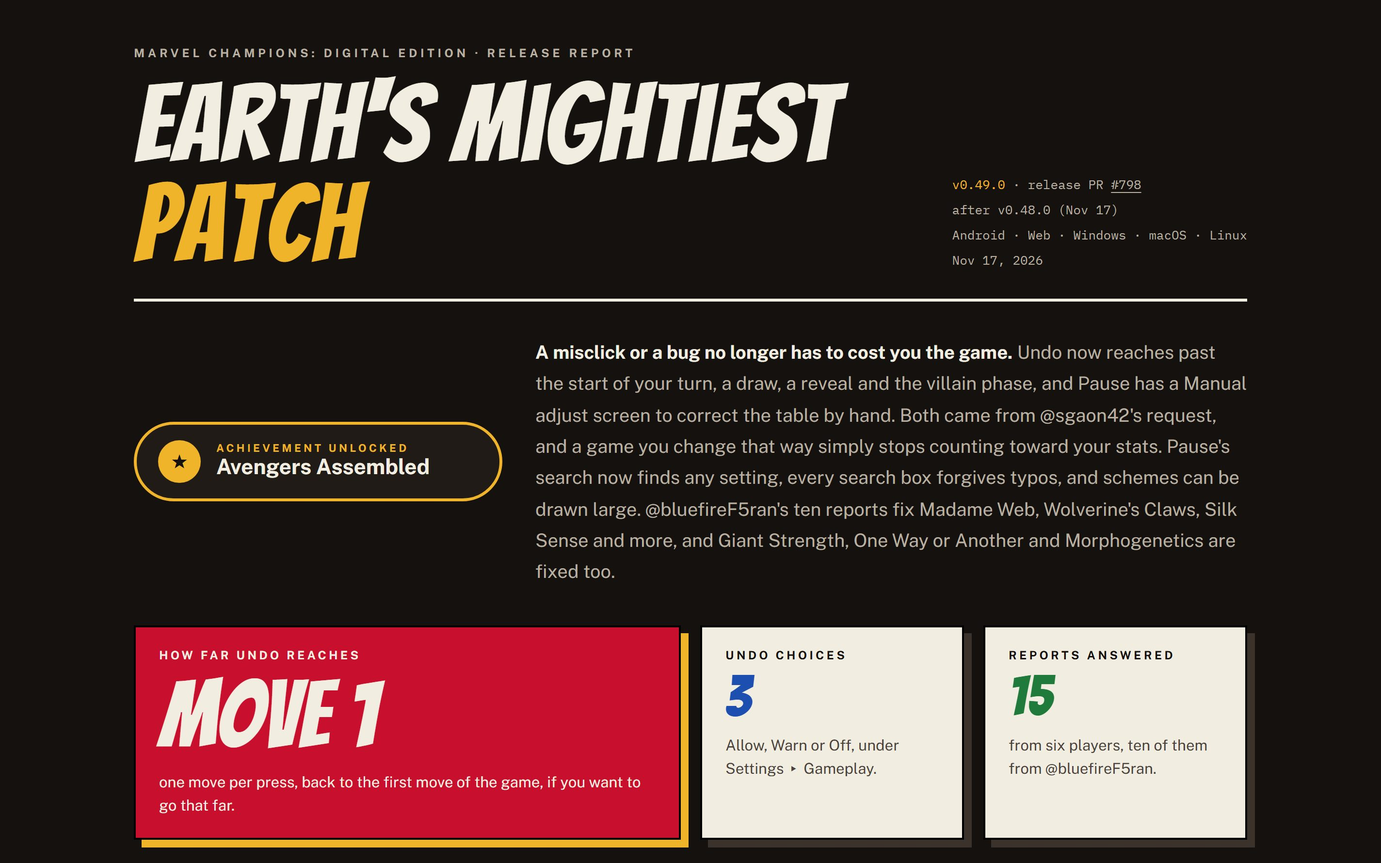
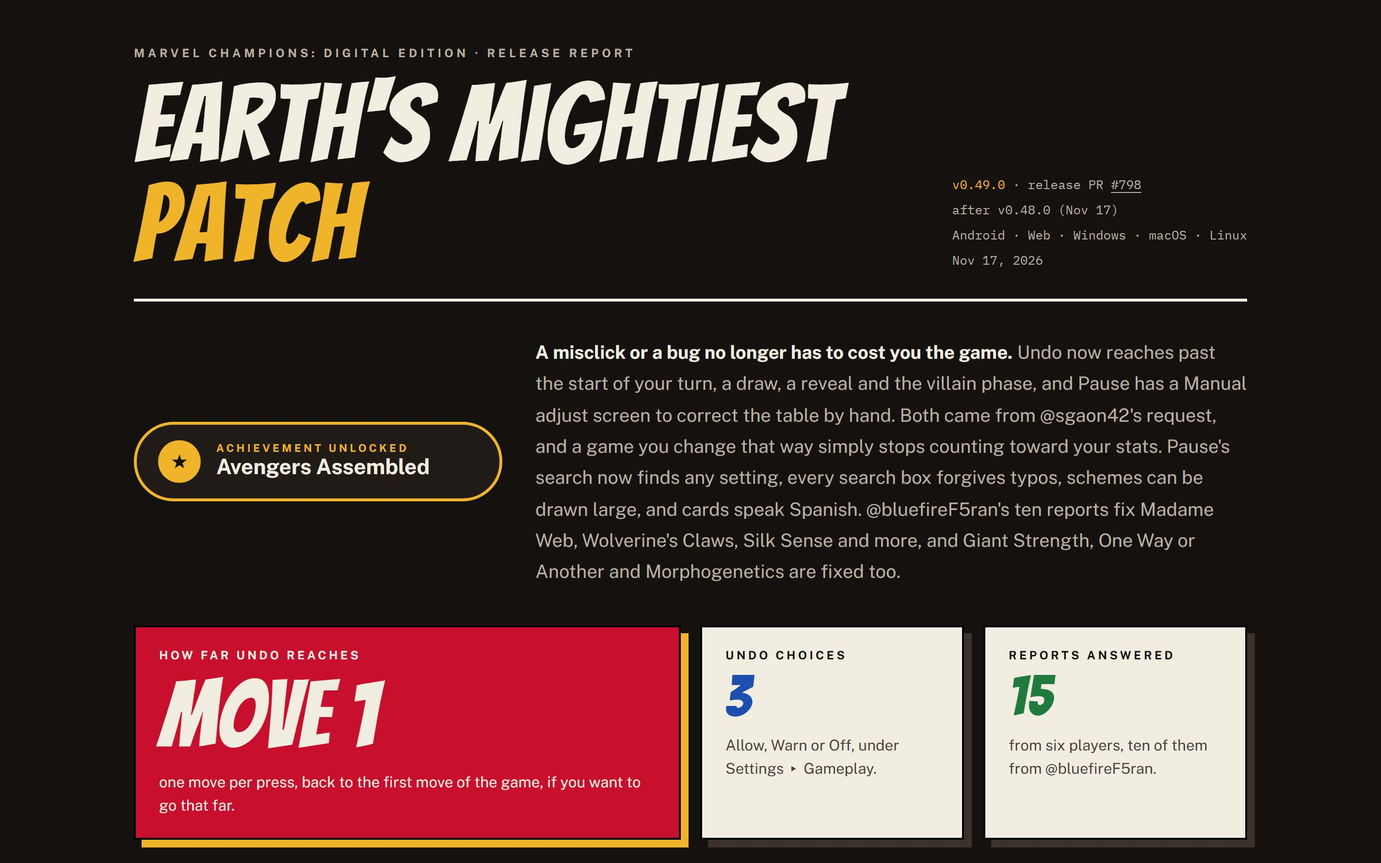
v0.49.0 report: add Spanish card text (#835), recount Code shipped

Changed region(s): [[0.375, 0.5253, 0.9062, 0.6798]]

diff --git a/packages/client/public/releases/v0.49.0/index.html b/packages/client/public/releases/v0.49.0/index.html
@@ -625,9 +625,9 @@
           <b>A misclick or a bug no longer has to cost you the game.</b> Undo now reaches past the start of your turn, a
           draw, a reveal and the villain phase, and Pause has a Manual adjust screen to correct the table by hand. Both
           came from @sgaon42's request, and a game you change that way simply stops counting toward your stats. Pause's
-          search now finds any setting, every search box forgives typos, and schemes can be drawn large.
-          @bluefireF5ran's ten reports fix Madame Web, Wolverine's Claws, Silk Sense and more, and Giant Strength, One
-          Way or Another and Morphogenetics are fixed too.
+          search now finds any setting, every search box forgives typos, schemes can be drawn large, and cards speak
+          Spanish. @bluefireF5ran's ten reports fix Madame Web, Wolverine's Claws, Silk Sense and more, and Giant
+          Strength, One Way or Another and Morphogenetics are fixed too.
         </p>
       </section>
 
@@ -979,6 +979,52 @@
         </div>
       </div>
 
+      <!-- ============ SPANISH ============ -->
+      <div class="band">
+        <h2>Cards that speak Spanish</h2>
+        <div class="lab">Issue #391 · PR #835</div>
+      </div>
+      <div class="pill feat">
+        <div class="star">★</div>
+        <div><small>Achievement unlocked</small><span>Thor's Allspeak</span></div>
+      </div>
+      <p class="lead">
+        <b>With the game in Spanish, the Inspect sheet shows each card's Spanish name, rules text and flavor,</b> and
+        deck lists show Spanish titles and sort by them. The text comes from MarvelCDB's Spanish card database.
+      </p>
+      <div class="shots s-phone">
+        <figure class="a">
+          <img
+            src="img/spanish-inspect.webp"
+            alt="The Inspect sheet in Spanish: Voltereta hacia atrás, with its Spanish rules text and flavor under the card"
+            width="1280"
+            height="871"
+            loading="lazy"
+          />
+          <figcaption>Inspect in Spanish: Voltereta hacia atrás (Backflip)</figcaption>
+        </figure>
+        <figure>
+          <img
+            src="img/spanish-phone.webp"
+            alt="The Spanish Inspect sheet on a phone: ¡Por la justicia!, with its Spanish rules text and flavor"
+            width="412"
+            height="924"
+            loading="lazy"
+          />
+          <figcaption>On a phone: ¡Por la justicia! (For Justice!)</figcaption>
+        </figure>
+      </div>
+      <div class="box">
+        <ul class="ck">
+          <li>About <b>4,000 card faces</b> show Spanish text. Any card not translated yet stays in English.</li>
+          <li>
+            A face whose Spanish doesn't match its English, or a card with errata, keeps the English text, so what you
+            read is always what the game plays.
+          </li>
+          <li>English sessions never download the Spanish text.</li>
+        </ul>
+      </div>
+
       <!-- ============ YOU ASKED ============ -->
       <div class="band">
         <h2>You asked, we fixed</h2>
@@ -1171,22 +1217,22 @@
       <section class="stats" aria-label="Code shipped since v0.48.0">
         <div class="tile">
           <h4>Pull requests</h4>
-          <div class="n">19</div>
+          <div class="n">20</div>
           <p>merged into main.</p>
         </div>
         <div class="tile">
           <h4>Files changed</h4>
-          <div class="n">270</div>
+          <div class="n">350</div>
           <p>across the engine, the cards, the client and this report.</p>
         </div>
         <div class="tile">
           <h4>Lines added</h4>
-          <div class="n c-green">13,271</div>
-          <p>most of them Undo, Manual adjust and their tests.</p>
+          <div class="n c-green">271,471</div>
+          <p>most of them MarvelCDB's Spanish card data, cached in the repo.</p>
         </div>
         <div class="tile">
           <h4>Lines removed</h4>
-          <div class="n c-red">618</div>
+          <div class="n c-red">649</div>
           <p>code the new Undo and adjust paths replaced.</p>
         </div>
       </section>

diff --git a/docs/releases/es/v0.49.0.md b/docs/releases/es/v0.49.0.md
@@ -1,6 +1,6 @@
 ## El parche más poderoso de la Tierra
 
-Un clic equivocado o un error ya no tienen por qué costarte la partida. Undo ahora llega más allá del inicio de tu turno, un robo, una revelación y la fase de villano, una jugada por pulsación, y Settings ▸ Gameplay ▸ Undo past your turn elige entre Allow, Warn u Off. Pause ▸ Manual adjust corrige la mesa a mano: daño, amenaza, contadores, estados, agotar y preparar, descartes, un robo y la forma de tu héroe. Las dos funciones nacen de la petición de @sgaon42 (#791, #793), y una partida que cambias así deja de contar para las estadísticas y los logros. La búsqueda de Pause ahora encuentra cualquier ajuste y lo cambia ahí mismo, con sinónimos como "rewind" y "zoom", y todas las búsquedas del juego perdonan acentos, erratas y letras que faltan (#800, #801). Large schemes y Stack schemes, dos ajustes nuevos, dibujan los planes en grande sin que la mesa se desplace, y Stack schemes puede extenderlos todos (#808, #831). @bluefireF5ran envió diez reportes, de #809 a #818, y todos están corregidos: Madame Web, Deathunt 9000, Across the Spider-Verse, White Fox, Clarity of Purpose, Silk Sense, Change of Fortune, Wolverine's Claws y dos líneas del registro. La búsqueda de cartas del constructor de mazos encuentra los nombres en español, como pidió @andy-xxvii27 (#806). Giant Strength ahora espera a la forma de héroe Giant, gracias a GarethMagis en Discord (#794), One Way or Another solo roba cuando su búsqueda encuentra un plan secundario, gracias al reporte de @javgoro (#795), y un evento que Morphogenetics de Ms. Marvel devuelve a la mano puede jugarse otra vez con el mismo disparador, gracias a Gooffrey [KRBY] en Discord (#804). Crossbones empieza con un Experimental Weapon y los Experimental Weapons de la campaña de Red Skull se conservan (#805), y Shawarma muestra su Max 1 per deck (#807). Public Support (High) de Kingpin ahora necesita todos sus contadores, 1 por héroe, como resolvió FFG (#829). ¡Gracias por jugar!
+Un clic equivocado o un error ya no tienen por qué costarte la partida. Undo ahora llega más allá del inicio de tu turno, un robo, una revelación y la fase de villano, una jugada por pulsación, y Settings ▸ Gameplay ▸ Undo past your turn elige entre Allow, Warn u Off. Pause ▸ Manual adjust corrige la mesa a mano: daño, amenaza, contadores, estados, agotar y preparar, descartes, un robo y la forma de tu héroe. Las dos funciones nacen de la petición de @sgaon42 (#791, #793), y una partida que cambias así deja de contar para las estadísticas y los logros. La búsqueda de Pause ahora encuentra cualquier ajuste y lo cambia ahí mismo, con sinónimos como "rewind" y "zoom", y todas las búsquedas del juego perdonan acentos, erratas y letras que faltan (#800, #801). Large schemes y Stack schemes, dos ajustes nuevos, dibujan los planes en grande sin que la mesa se desplace, y Stack schemes puede extenderlos todos (#808, #831). Con el juego en español, las cartas muestran su nombre, su texto de reglas y su ambientación en español, de MarvelCDB (#391, #835). @bluefireF5ran envió diez reportes, de #809 a #818, y todos están corregidos: Madame Web, Deathunt 9000, Across the Spider-Verse, White Fox, Clarity of Purpose, Silk Sense, Change of Fortune, Wolverine's Claws y dos líneas del registro. La búsqueda de cartas del constructor de mazos encuentra los nombres en español, como pidió @andy-xxvii27 (#806). Giant Strength ahora espera a la forma de héroe Giant, gracias a GarethMagis en Discord (#794), One Way or Another solo roba cuando su búsqueda encuentra un plan secundario, gracias al reporte de @javgoro (#795), y un evento que Morphogenetics de Ms. Marvel devuelve a la mano puede jugarse otra vez con el mismo disparador, gracias a Gooffrey [KRBY] en Discord (#804). Crossbones empieza con un Experimental Weapon y los Experimental Weapons de la campaña de Red Skull se conservan (#805), y Shawarma muestra su Max 1 per deck (#807). Public Support (High) de Kingpin ahora necesita todos sus contadores, 1 por héroe, como resolvió FFG (#829). ¡Gracias por jugar!
 
 ![Los números: Undo llega hasta la jugada 1, tres opciones de Undo y quince reportes atendidos](https://raw.githubusercontent.com/quincarter/marvel-champions-digital-game/4c621706cf44403c9ed5d14370435ca5cdbba2c1/docs/screenshots/releases/v0.49.0/v0-49-0-release-01-the-numbers.jpg)
 
@@ -14,15 +14,17 @@ Un clic equivocado o un error ya no tienen por qué costarte la partida. Undo ah
 
 ![Planes que se pueden leer: Large schemes y Stack schemes en escritorio, Fan out sin fondo y al 50%, los ajustes nuevos, y la pila en un teléfono](https://raw.githubusercontent.com/quincarter/marvel-champions-digital-game/4c621706cf44403c9ed5d14370435ca5cdbba2c1/docs/screenshots/releases/v0.49.0/v0-49-0-release-06-schemes-you-can-read.jpg)
 
-![Lo pediste, lo corregimos: Giant Strength espera a la forma Giant, reportado por GarethMagis, One Way or Another necesita un plan secundario, reportado por @javgoro, Morphogenetics vuelve a jugar Turn the Tide, reportado por Gooffrey [KRBY], y los nombres de cartas en español en la búsqueda, pedido por @andy-xxvii27](https://raw.githubusercontent.com/quincarter/marvel-champions-digital-game/4c621706cf44403c9ed5d14370435ca5cdbba2c1/docs/screenshots/releases/v0.49.0/v0-49-0-release-07-you-asked-we-fixed.jpg)
+![Cartas que hablan español: Voltereta hacia atrás y ¡Por la justicia! en la ficha Inspect, en escritorio y teléfono](https://raw.githubusercontent.com/quincarter/marvel-champions-digital-game/4c621706cf44403c9ed5d14370435ca5cdbba2c1/docs/screenshots/releases/v0.49.0/v0-49-0-release-07-cards-that-speak-spanish.jpg)
 
-![Diez reportes, diez correcciones: los reportes de @bluefireF5ran sobre Madame Web, Deathunt 9000, Across the Spider-Verse, Silk Sense, Change of Fortune, Wolverine's Claws, White Fox, Clarity of Purpose y el registro](https://raw.githubusercontent.com/quincarter/marvel-champions-digital-game/4c621706cf44403c9ed5d14370435ca5cdbba2c1/docs/screenshots/releases/v0.49.0/v0-49-0-release-08-ten-reports-ten-fixes.jpg)
+![Lo pediste, lo corregimos: Giant Strength espera a la forma Giant, reportado por GarethMagis, One Way or Another necesita un plan secundario, reportado por @javgoro, Morphogenetics vuelve a jugar Turn the Tide, reportado por Gooffrey [KRBY], y los nombres de cartas en español en la búsqueda, pedido por @andy-xxvii27](https://raw.githubusercontent.com/quincarter/marvel-champions-digital-game/4c621706cf44403c9ed5d14370435ca5cdbba2c1/docs/screenshots/releases/v0.49.0/v0-49-0-release-08-you-asked-we-fixed.jpg)
 
-![También en v0.49.0: Crossbones empieza con un Experimental Weapon y las armas de la campaña se conservan, el Max 1 per deck de Shawarma, y Public Support (High) necesita todos sus contadores, 1 por héroe, como resolvió FFG](https://raw.githubusercontent.com/quincarter/marvel-champions-digital-game/4c621706cf44403c9ed5d14370435ca5cdbba2c1/docs/screenshots/releases/v0.49.0/v0-49-0-release-09-also-in-v0-49-0.jpg)
+![Diez reportes, diez correcciones: los reportes de @bluefireF5ran sobre Madame Web, Deathunt 9000, Across the Spider-Verse, Silk Sense, Change of Fortune, Wolverine's Claws, White Fox, Clarity of Purpose y el registro](https://raw.githubusercontent.com/quincarter/marvel-champions-digital-game/4c621706cf44403c9ed5d14370435ca5cdbba2c1/docs/screenshots/releases/v0.49.0/v0-49-0-release-09-ten-reports-ten-fixes.jpg)
 
-![Gracias a @sgaon42, GarethMagis, @javgoro, @bluefireF5ran, @andy-xxvii27 y Gooffrey [KRBY]](https://raw.githubusercontent.com/quincarter/marvel-champions-digital-game/4c621706cf44403c9ed5d14370435ca5cdbba2c1/docs/screenshots/releases/v0.49.0/v0-49-0-release-10-thank-you.jpg)
+![También en v0.49.0: Crossbones empieza con un Experimental Weapon y las armas de la campaña se conservan, el Max 1 per deck de Shawarma, y Public Support (High) necesita todos sus contadores, 1 por héroe, como resolvió FFG](https://raw.githubusercontent.com/quincarter/marvel-champions-digital-game/4c621706cf44403c9ed5d14370435ca5cdbba2c1/docs/screenshots/releases/v0.49.0/v0-49-0-release-10-also-in-v0-49-0.jpg)
 
-![Código publicado desde v0.48.0](https://raw.githubusercontent.com/quincarter/marvel-champions-digital-game/4c621706cf44403c9ed5d14370435ca5cdbba2c1/docs/screenshots/releases/v0.49.0/v0-49-0-release-11-code-shipped.jpg)
+![Gracias a @sgaon42, GarethMagis, @javgoro, @bluefireF5ran, @andy-xxvii27 y Gooffrey [KRBY]](https://raw.githubusercontent.com/quincarter/marvel-champions-digital-game/4c621706cf44403c9ed5d14370435ca5cdbba2c1/docs/screenshots/releases/v0.49.0/v0-49-0-release-11-thank-you.jpg)
+
+![Código publicado desde v0.48.0](https://raw.githubusercontent.com/quincarter/marvel-champions-digital-game/4c621706cf44403c9ed5d14370435ca5cdbba2c1/docs/screenshots/releases/v0.49.0/v0-49-0-release-12-code-shipped.jpg)
 
 ## [v0.49.0] - 2026-11-17
 
@@ -36,6 +38,7 @@ Un clic equivocado o un error ya no tienen por qué costarte la partida. Undo ah
 - Ajuste Large schemes (Settings > Cards, y Pause): muestra el plan principal y los planes secundarios como cartas grandes en la mesa, y solo se desplaza dentro del panel de planes (#808).
 - La búsqueda de cartas del constructor de mazos también encuentra los nombres de las cartas en español cuando el juego está en español (#806).
 - Ajuste Stack schemes (Settings > Cards, y Pause): los planes apilados como un mazo con sus nombres a la vista; desliza o toca para traer uno al frente, y toca la carta delantera para extenderlos todos (#808).
+- La versión en español muestra el nombre, el texto de reglas y el texto de ambientación de cada carta en español (de MarvelCDB) en la ficha Inspect y en las listas de mazos, con el inglés como respaldo para cualquier carta aún sin traducir (#391).
 
 ### Changed
 

diff --git a/docs/screenshots/releases/v0.49.0/github-release-body.md b/docs/screenshots/releases/v0.49.0/github-release-body.md
@@ -1,8 +1,8 @@
 ## Earth's Mightiest Patch
 
-A misclick or a bug no longer has to cost you the game. Undo now reaches past the start of your turn, a draw, a reveal and the villain phase, one move per press, and Settings ▸ Gameplay ▸ Undo past your turn picks Allow, Warn or Off. Pause ▸ Manual adjust corrects the table by hand: damage, threat, counters, statuses, exhausting and readying, discards, a draw and your hero's form. Both came from @sgaon42's request (#791, #793), and a game you change that way stops counting toward stats and achievements. Pause's search now finds any setting and changes it in place, with synonyms like "rewind" and "zoom", and every search box in the game forgives accents, typos and dropped letters (#800, #801). Large schemes and Stack schemes, two new settings, draw the schemes big without the table scrolling, and Stack schemes can fan them all out (#808, #831). @bluefireF5ran sent ten reports, #809 to #818, and every one is fixed: Madame Web, Deathunt 9000, Across the Spider-Verse, White Fox, Clarity of Purpose, Silk Sense, Change of Fortune, Wolverine's Claws and two log lines. The deck builder's card search finds Spanish card names, as @andy-xxvii27 asked (#806). Giant Strength now waits for Giant hero form, thanks to GarethMagis on Discord (#794), One Way or Another draws only when its search finds a side scheme, thanks to @javgoro's report (#795), and an event Ms. Marvel's Morphogenetics returns to hand can be played again off the same trigger, thanks to Gooffrey [KRBY] on Discord (#804). Crossbones starts with an Experimental Weapon and Red Skull campaign weapons carry over (#805), and Shawarma shows its Max 1 per deck (#807). Kingpin's Public Support (High) now needs its full 1 per hero counters, as FFG ruled (#829). Thank you for playing!
+A misclick or a bug no longer has to cost you the game. Undo now reaches past the start of your turn, a draw, a reveal and the villain phase, one move per press, and Settings ▸ Gameplay ▸ Undo past your turn picks Allow, Warn or Off. Pause ▸ Manual adjust corrects the table by hand: damage, threat, counters, statuses, exhausting and readying, discards, a draw and your hero's form. Both came from @sgaon42's request (#791, #793), and a game you change that way stops counting toward stats and achievements. Pause's search now finds any setting and changes it in place, with synonyms like "rewind" and "zoom", and every search box in the game forgives accents, typos and dropped letters (#800, #801). Large schemes and Stack schemes, two new settings, draw the schemes big without the table scrolling, and Stack schemes can fan them all out (#808, #831). With the game in Spanish, cards show their Spanish name, rules text and flavor from MarvelCDB (#391, #835). @bluefireF5ran sent ten reports, #809 to #818, and every one is fixed: Madame Web, Deathunt 9000, Across the Spider-Verse, White Fox, Clarity of Purpose, Silk Sense, Change of Fortune, Wolverine's Claws and two log lines. The deck builder's card search finds Spanish card names, as @andy-xxvii27 asked (#806). Giant Strength now waits for Giant hero form, thanks to GarethMagis on Discord (#794), One Way or Another draws only when its search finds a side scheme, thanks to @javgoro's report (#795), and an event Ms. Marvel's Morphogenetics returns to hand can be played again off the same trigger, thanks to Gooffrey [KRBY] on Discord (#804). Crossbones starts with an Experimental Weapon and Red Skull campaign weapons carry over (#805), and Shawarma shows its Max 1 per deck (#807). Kingpin's Public Support (High) now needs its full 1 per hero counters, as FFG ruled (#829). Thank you for playing!
 
-**[Read the full v0.49.0 report on the site ↗](https://champions-digital-game.com/releases/v0.49.0/)**: Undo past your turn and its three settings, Manual adjust, how adjusted games stay out of your stats, Pause search, the new scheme settings, the fixes, bluefireF5ran's ten reports, Crossbones' weapon, Public Support's ruling and the thank-you wall.
+**[Read the full v0.49.0 report on the site ↗](https://champions-digital-game.com/releases/v0.49.0/)**: Undo past your turn and its three settings, Manual adjust, how adjusted games stay out of your stats, Pause search, the new scheme settings, Spanish card text, the fixes, bluefireF5ran's ten reports, Crossbones' weapon, Public Support's ruling and the thank-you wall.
 
 **[Lee el informe completo en español ↗](https://champions-digital-game.com/releases/v0.49.0/index.es.html)**
 
@@ -18,15 +18,17 @@ A misclick or a bug no longer has to cost you the game. Undo now reaches past th
 
 ![Schemes you can read: Large schemes and Stack schemes on desktop, Fan out with no background and with 50%, the new settings, and the stack on a phone](https://raw.githubusercontent.com/quincarter/marvel-champions-digital-game/4c621706cf44403c9ed5d14370435ca5cdbba2c1/docs/screenshots/releases/v0.49.0/v0-49-0-release-06-schemes-you-can-read.jpg)
 
-![You asked, we fixed: Giant Strength waits for Giant form, reported by GarethMagis, One Way or Another needs a side scheme, reported by @javgoro, Morphogenetics replays Turn the Tide, reported by Gooffrey [KRBY], and Spanish card names in search, requested by @andy-xxvii27](https://raw.githubusercontent.com/quincarter/marvel-champions-digital-game/4c621706cf44403c9ed5d14370435ca5cdbba2c1/docs/screenshots/releases/v0.49.0/v0-49-0-release-07-you-asked-we-fixed.jpg)
+![Cards that speak Spanish: Voltereta hacia atrás and ¡Por la justicia! on the Inspect sheet, desktop and phone](https://raw.githubusercontent.com/quincarter/marvel-champions-digital-game/4c621706cf44403c9ed5d14370435ca5cdbba2c1/docs/screenshots/releases/v0.49.0/v0-49-0-release-07-cards-that-speak-spanish.jpg)
 
-![Ten reports, ten fixes: @bluefireF5ran's reports on Madame Web, Deathunt 9000, Across the Spider-Verse, Silk Sense, Change of Fortune, Wolverine's Claws, White Fox, Clarity of Purpose and the log](https://raw.githubusercontent.com/quincarter/marvel-champions-digital-game/4c621706cf44403c9ed5d14370435ca5cdbba2c1/docs/screenshots/releases/v0.49.0/v0-49-0-release-08-ten-reports-ten-fixes.jpg)
+![You asked, we fixed: Giant Strength waits for Giant form, reported by GarethMagis, One Way or Another needs a side scheme, reported by @javgoro, Morphogenetics replays Turn the Tide, reported by Gooffrey [KRBY], and Spanish card names in search, requested by @andy-xxvii27](https://raw.githubusercontent.com/quincarter/marvel-champions-digital-game/4c621706cf44403c9ed5d14370435ca5cdbba2c1/docs/screenshots/releases/v0.49.0/v0-49-0-release-08-you-asked-we-fixed.jpg)
 
-![Also in v0.49.0: Crossbones starts with an Experimental Weapon and campaign weapons carry over, Shawarma's Max 1 per deck, and Public Support (High) needs its full 1 per hero counters, as FFG ruled](https://raw.githubusercontent.com/quincarter/marvel-champions-digital-game/4c621706cf44403c9ed5d14370435ca5cdbba2c1/docs/screenshots/releases/v0.49.0/v0-49-0-release-09-also-in-v0-49-0.jpg)
+![Ten reports, ten fixes: @bluefireF5ran's reports on Madame Web, Deathunt 9000, Across the Spider-Verse, Silk Sense, Change of Fortune, Wolverine's Claws, White Fox, Clarity of Purpose and the log](https://raw.githubusercontent.com/quincarter/marvel-champions-digital-game/4c621706cf44403c9ed5d14370435ca5cdbba2c1/docs/screenshots/releases/v0.49.0/v0-49-0-release-09-ten-reports-ten-fixes.jpg)
 
-![Thank you to @sgaon42, GarethMagis, @javgoro, @bluefireF5ran, @andy-xxvii27 and Gooffrey [KRBY]](https://raw.githubusercontent.com/quincarter/marvel-champions-digital-game/4c621706cf44403c9ed5d14370435ca5cdbba2c1/docs/screenshots/releases/v0.49.0/v0-49-0-release-10-thank-you.jpg)
+![Also in v0.49.0: Crossbones starts with an Experimental Weapon and campaign weapons carry over, Shawarma's Max 1 per deck, and Public Support (High) needs its full 1 per hero counters, as FFG ruled](https://raw.githubusercontent.com/quincarter/marvel-champions-digital-game/4c621706cf44403c9ed5d14370435ca5cdbba2c1/docs/screenshots/releases/v0.49.0/v0-49-0-release-10-also-in-v0-49-0.jpg)
 
-![Code shipped since v0.48.0](https://raw.githubusercontent.com/quincarter/marvel-champions-digital-game/4c621706cf44403c9ed5d14370435ca5cdbba2c1/docs/screenshots/releases/v0.49.0/v0-49-0-release-11-code-shipped.jpg)
+![Thank you to @sgaon42, GarethMagis, @javgoro, @bluefireF5ran, @andy-xxvii27 and Gooffrey [KRBY]](https://raw.githubusercontent.com/quincarter/marvel-champions-digital-game/4c621706cf44403c9ed5d14370435ca5cdbba2c1/docs/screenshots/releases/v0.49.0/v0-49-0-release-11-thank-you.jpg)
+
+![Code shipped since v0.48.0](https://raw.githubusercontent.com/quincarter/marvel-champions-digital-game/4c621706cf44403c9ed5d14370435ca5cdbba2c1/docs/screenshots/releases/v0.49.0/v0-49-0-release-12-code-shipped.jpg)
 
 ---
 
@@ -42,6 +44,7 @@ A misclick or a bug no longer has to cost you the game. Undo now reaches past th
 - Large schemes setting (Settings > Cards, and Pause): shows the main scheme and side schemes as large cards on the table, scrolling only inside the schemes panel (#808).
 - The deck builder's card search also matches Spanish card names when the game is in Spanish (#806).
 - Stack schemes setting (Settings > Cards, and Pause): the schemes stacked like a deck with their names showing; swipe or tap to bring one forward, and tap the front card to fan them all out (#808).
+- The Spanish version shows each card's Spanish name, rules text and flavor text (from MarvelCDB) on the Inspect sheet and in deck lists, falling back to English for any card not yet translated (#391).
 
 ### Changed
 

diff --git a/docs/screenshots/releases/v0.49.0/release-notes-header.md b/docs/screenshots/releases/v0.49.0/release-notes-header.md
@@ -1,8 +1,8 @@
 ## Earth's Mightiest Patch
 
-A misclick or a bug no longer has to cost you the game. Undo now reaches past the start of your turn, a draw, a reveal and the villain phase, one move per press, and Settings ▸ Gameplay ▸ Undo past your turn picks Allow, Warn or Off. Pause ▸ Manual adjust corrects the table by hand: damage, threat, counters, statuses, exhausting and readying, discards, a draw and your hero's form. Both came from @sgaon42's request (#791, #793), and a game you change that way stops counting toward stats and achievements. Pause's search now finds any setting and changes it in place, with synonyms like "rewind" and "zoom", and every search box in the game forgives accents, typos and dropped letters (#800, #801). Large schemes and Stack schemes, two new settings, draw the schemes big without the table scrolling, and Stack schemes can fan them all out (#808, #831). @bluefireF5ran sent ten reports, #809 to #818, and every one is fixed: Madame Web, Deathunt 9000, Across the Spider-Verse, White Fox, Clarity of Purpose, Silk Sense, Change of Fortune, Wolverine's Claws and two log lines. The deck builder's card search finds Spanish card names, as @andy-xxvii27 asked (#806). Giant Strength now waits for Giant hero form, thanks to GarethMagis on Discord (#794), One Way or Another draws only when its search finds a side scheme, thanks to @javgoro's report (#795), and an event Ms. Marvel's Morphogenetics returns to hand can be played again off the same trigger, thanks to Gooffrey [KRBY] on Discord (#804). Crossbones starts with an Experimental Weapon and Red Skull campaign weapons carry over (#805), and Shawarma shows its Max 1 per deck (#807). Kingpin's Public Support (High) now needs its full 1 per hero counters, as FFG ruled (#829). Thank you for playing!
+A misclick or a bug no longer has to cost you the game. Undo now reaches past the start of your turn, a draw, a reveal and the villain phase, one move per press, and Settings ▸ Gameplay ▸ Undo past your turn picks Allow, Warn or Off. Pause ▸ Manual adjust corrects the table by hand: damage, threat, counters, statuses, exhausting and readying, discards, a draw and your hero's form. Both came from @sgaon42's request (#791, #793), and a game you change that way stops counting toward stats and achievements. Pause's search now finds any setting and changes it in place, with synonyms like "rewind" and "zoom", and every search box in the game forgives accents, typos and dropped letters (#800, #801). Large schemes and Stack schemes, two new settings, draw the schemes big without the table scrolling, and Stack schemes can fan them all out (#808, #831). With the game in Spanish, cards show their Spanish name, rules text and flavor from MarvelCDB (#391, #835). @bluefireF5ran sent ten reports, #809 to #818, and every one is fixed: Madame Web, Deathunt 9000, Across the Spider-Verse, White Fox, Clarity of Purpose, Silk Sense, Change of Fortune, Wolverine's Claws and two log lines. The deck builder's card search finds Spanish card names, as @andy-xxvii27 asked (#806). Giant Strength now waits for Giant hero form, thanks to GarethMagis on Discord (#794), One Way or Another draws only when its search finds a side scheme, thanks to @javgoro's report (#795), and an event Ms. Marvel's Morphogenetics returns to hand can be played again off the same trigger, thanks to Gooffrey [KRBY] on Discord (#804). Crossbones starts with an Experimental Weapon and Red Skull campaign weapons carry over (#805), and Shawarma shows its Max 1 per deck (#807). Kingpin's Public Support (High) now needs its full 1 per hero counters, as FFG ruled (#829). Thank you for playing!
 
-**[Read the full v0.49.0 report on the site ↗](https://champions-digital-game.com/releases/v0.49.0/)**: Undo past your turn and its three settings, Manual adjust, how adjusted games stay out of your stats, Pause search, the new scheme settings, the fixes, bluefireF5ran's ten reports, Crossbones' weapon, Public Support's ruling and the thank-you wall.
+**[Read the full v0.49.0 report on the site ↗](https://champions-digital-game.com/releases/v0.49.0/)**: Undo past your turn and its three settings, Manual adjust, how adjusted games stay out of your stats, Pause search, the new scheme settings, Spanish card text, the fixes, bluefireF5ran's ten reports, Crossbones' weapon, Public Support's ruling and the thank-you wall.
 
 **[Lee el informe completo en español ↗](https://champions-digital-game.com/releases/v0.49.0/index.es.html)**
 
@@ -18,12 +18,14 @@ A misclick or a bug no longer has to cost you the game. Undo now reaches past th
 
 ![Schemes you can read: Large schemes and Stack schemes on desktop, Fan out with no background and with 50%, the new settings, and the stack on a phone](https://raw.githubusercontent.com/quincarter/marvel-champions-digital-game/4c621706cf44403c9ed5d14370435ca5cdbba2c1/docs/screenshots/releases/v0.49.0/v0-49-0-release-06-schemes-you-can-read.jpg)
 
-![You asked, we fixed: Giant Strength waits for Giant form, reported by GarethMagis, One Way or Another needs a side scheme, reported by @javgoro, Morphogenetics replays Turn the Tide, reported by Gooffrey [KRBY], and Spanish card names in search, requested by @andy-xxvii27](https://raw.githubusercontent.com/quincarter/marvel-champions-digital-game/4c621706cf44403c9ed5d14370435ca5cdbba2c1/docs/screenshots/releases/v0.49.0/v0-49-0-release-07-you-asked-we-fixed.jpg)
+![Cards that speak Spanish: Voltereta hacia atrás and ¡Por la justicia! on the Inspect sheet, desktop and phone](https://raw.githubusercontent.com/quincarter/marvel-champions-digital-game/4c621706cf44403c9ed5d14370435ca5cdbba2c1/docs/screenshots/releases/v0.49.0/v0-49-0-release-07-cards-that-speak-spanish.jpg)
 
-![Ten reports, ten fixes: @bluefireF5ran's reports on Madame Web, Deathunt 9000, Across the Spider-Verse, Silk Sense, Change of Fortune, Wolverine's Claws, White Fox, Clarity of Purpose and the log](https://raw.githubusercontent.com/quincarter/marvel-champions-digital-game/4c621706cf44403c9ed5d14370435ca5cdbba2c1/docs/screenshots/releases/v0.49.0/v0-49-0-release-08-ten-reports-ten-fixes.jpg)
+![You asked, we fixed: Giant Strength waits for Giant form, reported by GarethMagis, One Way or Another needs a side scheme, reported by @javgoro, Morphogenetics replays Turn the Tide, reported by Gooffrey [KRBY], and Spanish card names in search, requested by @andy-xxvii27](https://raw.githubusercontent.com/quincarter/marvel-champions-digital-game/4c621706cf44403c9ed5d14370435ca5cdbba2c1/docs/screenshots/releases/v0.49.0/v0-49-0-release-08-you-asked-we-fixed.jpg)
 
-![Also in v0.49.0: Crossbones starts with an Experimental Weapon and campaign weapons carry over, Shawarma's Max 1 per deck, and Public Support (High) needs its full 1 per hero counters, as FFG ruled](https://raw.githubusercontent.com/quincarter/marvel-champions-digital-game/4c621706cf44403c9ed5d14370435ca5cdbba2c1/docs/screenshots/releases/v0.49.0/v0-49-0-release-09-also-in-v0-49-0.jpg)
+![Ten reports, ten fixes: @bluefireF5ran's reports on Madame Web, Deathunt 9000, Across the Spider-Verse, Silk Sense, Change of Fortune, Wolverine's Claws, White Fox, Clarity of Purpose and the log](https://raw.githubusercontent.com/quincarter/marvel-champions-digital-game/4c621706cf44403c9ed5d14370435ca5cdbba2c1/docs/screenshots/releases/v0.49.0/v0-49-0-release-09-ten-reports-ten-fixes.jpg)
 
-![Thank you to @sgaon42, GarethMagis, @javgoro, @bluefireF5ran, @andy-xxvii27 and Gooffrey [KRBY]](https://raw.githubusercontent.com/quincarter/marvel-champions-digital-game/4c621706cf44403c9ed5d14370435ca5cdbba2c1/docs/screenshots/releases/v0.49.0/v0-49-0-release-10-thank-you.jpg)
+![Also in v0.49.0: Crossbones starts with an Experimental Weapon and campaign weapons carry over, Shawarma's Max 1 per deck, and Public Support (High) needs its full 1 per hero counters, as FFG ruled](https://raw.githubusercontent.com/quincarter/marvel-champions-digital-game/4c621706cf44403c9ed5d14370435ca5cdbba2c1/docs/screenshots/releases/v0.49.0/v0-49-0-release-10-also-in-v0-49-0.jpg)
 
-![Code shipped since v0.48.0](https://raw.githubusercontent.com/quincarter/marvel-champions-digital-game/4c621706cf44403c9ed5d14370435ca5cdbba2c1/docs/screenshots/releases/v0.49.0/v0-49-0-release-11-code-shipped.jpg)
+![Thank you to @sgaon42, GarethMagis, @javgoro, @bluefireF5ran, @andy-xxvii27 and Gooffrey [KRBY]](https://raw.githubusercontent.com/quincarter/marvel-champions-digital-game/4c621706cf44403c9ed5d14370435ca5cdbba2c1/docs/screenshots/releases/v0.49.0/v0-49-0-release-11-thank-you.jpg)
+
+![Code shipped since v0.48.0](https://raw.githubusercontent.com/quincarter/marvel-champions-digital-game/4c621706cf44403c9ed5d14370435ca5cdbba2c1/docs/screenshots/releases/v0.49.0/v0-49-0-release-12-code-shipped.jpg)

diff --git a/docs/screenshots/releases/v0.49.0/discord-post.md b/docs/screenshots/releases/v0.49.0/discord-post.md
@@ -8,8 +8,8 @@ A misclick or a bug no longer has to cost you the game.
 🔎 **Pause search**: type in Pause to find any setting and change it right there ("undo", "rewind", "zoom"). Every search box now forgives accents, typos and dropped letters.
 🗺 **Large schemes and Stack schemes** (Settings ▸ Cards): read the schemes big without the table scrolling, or stack them and fan them out.
 🛠 **Fixes**: Giant Strength waits for Giant form (thanks, GarethMagis!), One Way or Another needs a side scheme (thanks, javgoro!), Morphogenetics replays Turn the Tide (thanks, Gooffrey [KRBY]!), plus Crossbones' weapon, Shawarma and Public Support.
-🕸 **Ten reports from bluefireF5ran**, all fixed: Madame Web, Deathunt 9000, Across the Spider-Verse, White Fox, Clarity of Purpose, Silk Sense, Change of Fortune, Wolverine's Claws and the log.
-🇪🇸 **Spanish card names** in the deck builder's search (thanks, andy-xxvii27!).
+🕸 **Ten reports from bluefireF5ran**, all fixed, from Madame Web to Wolverine's Claws.
+🇪🇸 **Cards in Spanish**: Spanish card text on Inspect and in deck lists, and Spanish names in deck search (thanks, andy-xxvii27!).
 
 Both Undo and Manual adjust came from sgaon42's request. Thank you, bluefireF5ran, and everyone who reported!
 
@@ -26,8 +26,8 @@ Un clic equivocado o un error ya no tienen por qué costarte la partida.
 🔎 **Búsqueda en Pause**: escribe en Pause para encontrar cualquier ajuste y cambiarlo ahí mismo ("undo", "rewind", "zoom"). Todas las búsquedas perdonan acentos, erratas y letras que faltan.
 🗺 **Large schemes y Stack schemes** (Settings ▸ Cards): lee los planes en grande sin que la mesa se desplace, o apílalos y extiéndelos.
 🛠 **Correcciones**: Giant Strength espera a la forma Giant (¡gracias, GarethMagis!), One Way or Another necesita un plan secundario (¡gracias, javgoro!), Morphogenetics vuelve a jugar Turn the Tide (¡gracias, Gooffrey [KRBY]!), y además el arma de Crossbones, Shawarma y Public Support.
-🕸 **Diez reportes de bluefireF5ran**, todos corregidos: Madame Web, Deathunt 9000, Across the Spider-Verse, White Fox, Clarity of Purpose, Silk Sense, Change of Fortune, Wolverine's Claws y el registro.
-🇪🇸 **Nombres de cartas en español** en la búsqueda del constructor de mazos (¡gracias, andy-xxvii27!).
+🕸 **Diez reportes de bluefireF5ran**, todos corregidos, desde Madame Web hasta Wolverine's Claws.
+🇪🇸 **Cartas en español**: texto en español en Inspect y en las listas de mazos, y nombres en español en la búsqueda de mazos (¡gracias, andy-xxvii27!).
 
 Undo y Manual adjust nacen de la petición de sgaon42. ¡Gracias, bluefireF5ran, y a todos los que reportaron!
 
